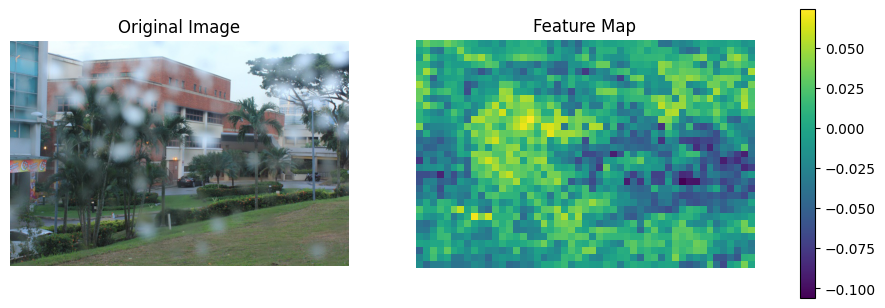
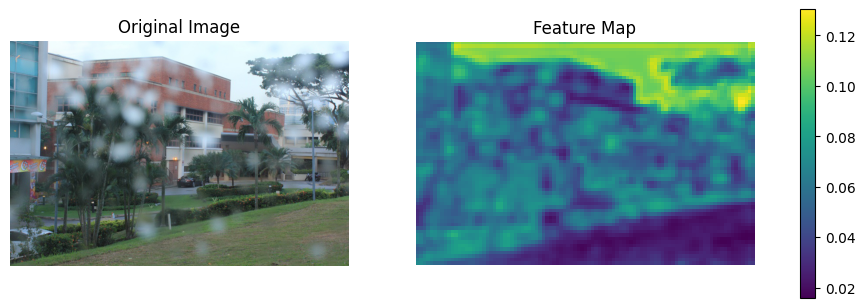
save progress

diff --git a/visualize_features_all.py b/visualize_features_all.py
@@ -10,6 +10,7 @@ from PIL import Image
 from pathlib import Path
 import matplotlib.pyplot as plt
 
+from depth_anything.dpt import DepthAnything
 from depth_anything.util.transform import Resize, NormalizeImage, PrepareForNet
 
 os.environ['CUDA_VISIBLE_DEVICES'] = '0, 1'
@@ -40,19 +41,25 @@ if __name__ == '__main__':
     font_thickness = 2
     
     DEVICE = 'cuda' if torch.cuda.is_available() else 'cpu'
-    
+
+    model_path = Path(__file__).resolve().parent.joinpath("models", "vits14")
+
+    # depth_anything = DepthAnything.from_pretrained(str(model_path)).eval()
     vits16 = torch.hub.load('facebookresearch/dino:main', 'dino_vits16').to(DEVICE).eval()
+    vgg16 = torch.hub.load('pytorch/vision:v0.10.0', 'vgg16').to(DEVICE).eval()
+    # depth_anything = DepthAnything.from_pretrained(str(model_path), local_files_only=True, cache_dir=str(model_path)).to(DEVICE).eval()
+    depth_anything = DepthAnything.from_pretrained(str(model_path)).eval()
     
-    total_params = sum(param.numel() for param in vits16.parameters())
+    total_params = sum(param.numel() for param in depth_anything.parameters())
     print('Total parameters: {:.2f}M'.format(total_params / 1e6))
     
     transform = Compose([
         Resize(
-            width=518*4,
-            height=518*4,
+            width=1036 * 3,
+            height=1036 * 3,
             resize_target=False,
             keep_aspect_ratio=True,
-            ensure_multiple_of=16,
+            # ensure_multiple_of=14,
             resize_method='lower_bound',
             image_interpolation_method=cv2.INTER_CUBIC,
         ),
@@ -77,7 +84,7 @@ if __name__ == '__main__':
         print(filename)
         fp = Path(filename)
         image_fn = str(fp).split("/")[-1]
-        feature_image_path = str(Path(__file__).resolve().parent.joinpath("dino1_feature_images", image_fn))
+        feature_image_path = str(Path(__file__).resolve().parent.joinpath("vis_depth_feature", image_fn))
 
         raw_image = cv2.imread(filename)
         image_rgb = cv2.cvtColor(raw_image, cv2.COLOR_BGR2RGB)
@@ -92,24 +99,46 @@ if __name__ == '__main__':
         print("input size: {}".format(image.shape))
         
         with torch.no_grad():
-            features = vits16.get_intermediate_layers(image, n=1)[0]
-            print("features shape: {}".format(features.shape))
-            last_feature_block = torch.mean(features, dim=2).squeeze(0)
-            
+            # Depth Anything
+            depth, dpt_features = depth_anything(image)
+            dpt_features = dpt_features[3][0] # 1x 2072 x 384
+            dpt_features = torch.mean(dpt_features,dim=2).squeeze(0)
+
+            seq_h = int(image.shape[2] / 14)
+            seq_w = int(image.shape[3] / 14)
+
+            dpt_features = dpt_features.reshape(seq_h,seq_w)
+
+            # vgg16
+            vgg_features = vgg16.features(image)
+            vgg_features = vgg_features.squeeze(0).permute(1,2,0)
+            vgg_features = torch.mean(vgg_features, dim=2)
+
+            # dino1
+            dino_features = vits16.get_intermediate_layers(image, n=1)[0]
+            dino_features = torch.mean(dino_features, dim=2).squeeze(0)
             seq_h = int(image.shape[2] / 16)
             seq_w = int(image.shape[3] / 16)
+            dino_features = dino_features[:-1].reshape(seq_h,seq_w)
 
-            last_feature_block = last_feature_block[:-1].reshape(seq_h,seq_w)
-
-            fig, axes = plt.subplots(1, 2, figsize=(12, 5))
+            fig, axes = plt.subplots(2, 2, figsize=(12, 5))
+            print(axes.shape)
             
             axes[0].imshow(image_pil)
             axes[0].axis('off')  
             axes[0].set_title('Original Image')
 
-            feature_image = axes[1].imshow(last_feature_block.cpu().numpy(), cmap='viridis', interpolation='nearest')
+            feature_image = axes[1].imshow(dpt_features.cpu().numpy(), cmap='viridis', interpolation='nearest')
             axes[1].axis('off')
-            axes[1].set_title('Feature Map')
+            axes[1].set_title('Depth-Anything Feature Map')
+
+            feature_image = axes[2].imshow(vgg_features.cpu().numpy(), cmap='viridis', interpolation='nearest')
+            axes[2].axis('off')
+            axes[2].set_title('VGG16 Feature Map')
+
+            feature_image = axes[3].imshow(dino_features.cpu().numpy(), cmap='viridis', interpolation='nearest')
+            axes[3].axis('off')
+            axes[3].set_title('Dino Feature Map')
 
             fig.colorbar(feature_image, ax=axes.ravel().tolist(), shrink=0.75)
             plt.savefig(feature_image_path, bbox_inches='tight')

diff --git a/visualize_features_vgg.py b/visualize_features_vgg.py
@@ -11,8 +11,9 @@ from pathlib import Path
 import matplotlib.pyplot as plt
 
 from depth_anything.util.transform import Resize, NormalizeImage, PrepareForNet
+from torchvision.models.vgg import VGG
 
-os.environ['CUDA_VISIBLE_DEVICES'] = '0, 1'
+os.environ['CUDA_VISIBLE_DEVICES'] = '6'
 
 def normalize_255(arr : np.array):
     min_x = np.min(arr)
@@ -41,9 +42,10 @@ if __name__ == '__main__':
     
     DEVICE = 'cuda' if torch.cuda.is_available() else 'cpu'
     
-    vits16 = torch.hub.load('facebookresearch/dino:main', 'dino_vits16').to(DEVICE).eval()
+    # vits16 = torch.hub.load('facebookresearch/dino:main', 'dino_vits16').to(DEVICE).eval()
+    vgg16 = torch.hub.load('pytorch/vision:v0.10.0', 'vgg16').to(DEVICE).eval()
     
-    total_params = sum(param.numel() for param in vits16.parameters())
+    total_params = sum(param.numel() for param in vgg16.parameters())
     print('Total parameters: {:.2f}M'.format(total_params / 1e6))
     
     transform = Compose([
@@ -52,7 +54,7 @@ if __name__ == '__main__':
             height=518*4,
             resize_target=False,
             keep_aspect_ratio=True,
-            ensure_multiple_of=16,
+            # ensure_multiple_of=16,
             resize_method='lower_bound',
             image_interpolation_method=cv2.INTER_CUBIC,
         ),
@@ -92,14 +94,11 @@ if __name__ == '__main__':
         print("input size: {}".format(image.shape))
         
         with torch.no_grad():
-            features = vits16.get_intermediate_layers(image, n=1)[0]
+            features = vgg16.features(image)
             print("features shape: {}".format(features.shape))
-            last_feature_block = torch.mean(features, dim=2).squeeze(0)
-            
-            seq_h = int(image.shape[2] / 16)
-            seq_w = int(image.shape[3] / 16)
-
-            last_feature_block = last_feature_block[:-1].reshape(seq_h,seq_w)
+            last_feature_block = features.squeeze(0).permute(1,2,0)
+            last_feature_block = torch.mean(last_feature_block, dim=2)
+            print("last_feature_block shape: {}".format(last_feature_block.shape))
 
             fig, axes = plt.subplots(1, 2, figsize=(12, 5))
             

diff --git a/visualize_features.py b/visualize_features.py
@@ -52,11 +52,11 @@ if __name__ == '__main__':
     
     transform = Compose([
         Resize(
-            width=1036 * 3,
-            height=1036 * 3,
+            width=518,
+            height=518,
             resize_target=False,
             keep_aspect_ratio=True,
-            # ensure_multiple_of=14,
+            ensure_multiple_of=14,
             resize_method='lower_bound',
             image_interpolation_method=cv2.INTER_CUBIC,
         ),
